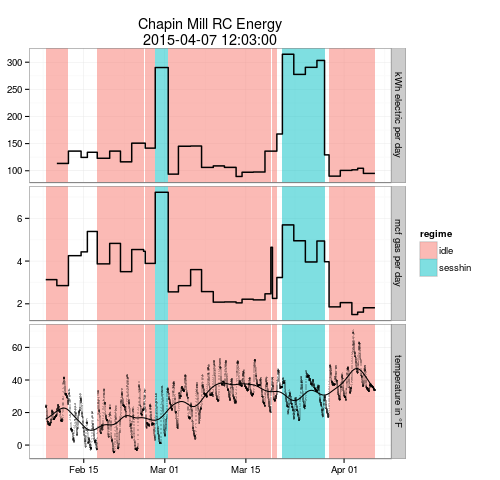
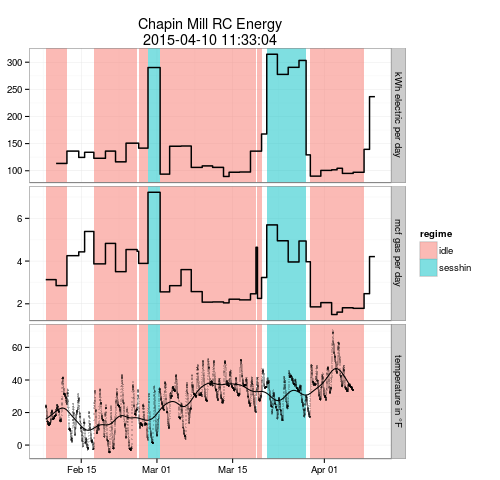
auto commit

Changed region(s): [[0.09, 0.0625, 0.75, 1.0], [0.39, 0.0625, 0.51, 0.0938], [0.12, 0.5312, 0.15, 0.5938]]

diff --git a/index.html b/index.html
@@ -4,7 +4,7 @@
 <html xmlns="http://www.w3.org/1999/xhtml" lang="en" xml:lang="en">
 <head>
 <title></title>
-<!-- 2015-04-07 Tue 12:03 -->
+<!-- 2015-04-10 Fri 11:33 -->
 <meta  http-equiv="Content-Type" content="text/html;charset=utf-8" />
 <meta  name="generator" content="Org-mode" />
 <style type="text/css">
@@ -296,6 +296,21 @@ it is <code>1.37</code> ccf per day. Thus sesshin results in
 a relative increase in heating costs of <code>89</code>
 percent.
 </p>
+
+<p>
+Plotting the mean gas consumption that the model predicts versus
+the actual observed values results in the plot below. Here the
+curve is the rate of gas consumption in thousands of cubic feet per
+day&#x2014;we saw this before in the raw data plot&#x2014;and the points are
+the predictions. (There are only predictions for times that are
+either idle or sesshin.)
+</p>
+
+
+<div class="figure">
+<p><img src="diagnostic.png" alt="diagnostic.png" />
+</p>
+</div>
 </div>
 </div>
 
@@ -328,14 +343,14 @@ nonsesshin periods.
 
 <tr>
 <td class="left">Idle</td>
-<td class="right">107.19</td>
-<td class="right">123.45</td>
+<td class="right">106.61</td>
+<td class="right">122.46</td>
 </tr>
 
 <tr>
 <td class="left">Sesshin</td>
-<td class="right">278.14</td>
-<td class="right">312.25</td>
+<td class="right">278.20</td>
+<td class="right">312.19</td>
 </tr>
 </tbody>
 </table>
@@ -344,7 +359,7 @@ nonsesshin periods.
 On average the retreat center consumes <code>115</code> kWh per
 day outside sesshin and <code>295</code> kWh per day during
 sesshin, so that sesshin results in a relative increase in
-electricity costs of <code>156</code> percent.
+electricity costs of <code>158</code> percent.
 </p>
 </div>
 </div>
@@ -486,17 +501,17 @@ where \(y\) is electricity consumption in kWh per day and the
 
 <tr>
 <td class="left">&beta;<sub>1</sub></td>
-<td class="right">115.32</td>
-<td class="right">4.15</td>
-<td class="right">27.80</td>
+<td class="right">114.53</td>
+<td class="right">4.04</td>
+<td class="right">28.33</td>
 <td class="right">0.00</td>
 </tr>
 
 <tr>
 <td class="left">&beta;<sub>2</sub></td>
 <td class="right">295.20</td>
-<td class="right">8.70</td>
-<td class="right">33.93</td>
+<td class="right">8.67</td>
+<td class="right">34.05</td>
 <td class="right">0.00</td>
 </tr>
 </tbody>
@@ -506,7 +521,7 @@ where \(y\) is electricity consumption in kWh per day and the
 
 <p>
 <div id="postamble" class="status">
-<p class="date">Created: 2015-04-07 Tue 12:03</p>
+<p class="date">Created: 2015-04-10 Fri 11:33</p>
 <p class="validation"><a href="http://validator.w3.org/check?uri=referer">Validate</a></p>
 </div>
 </body>
